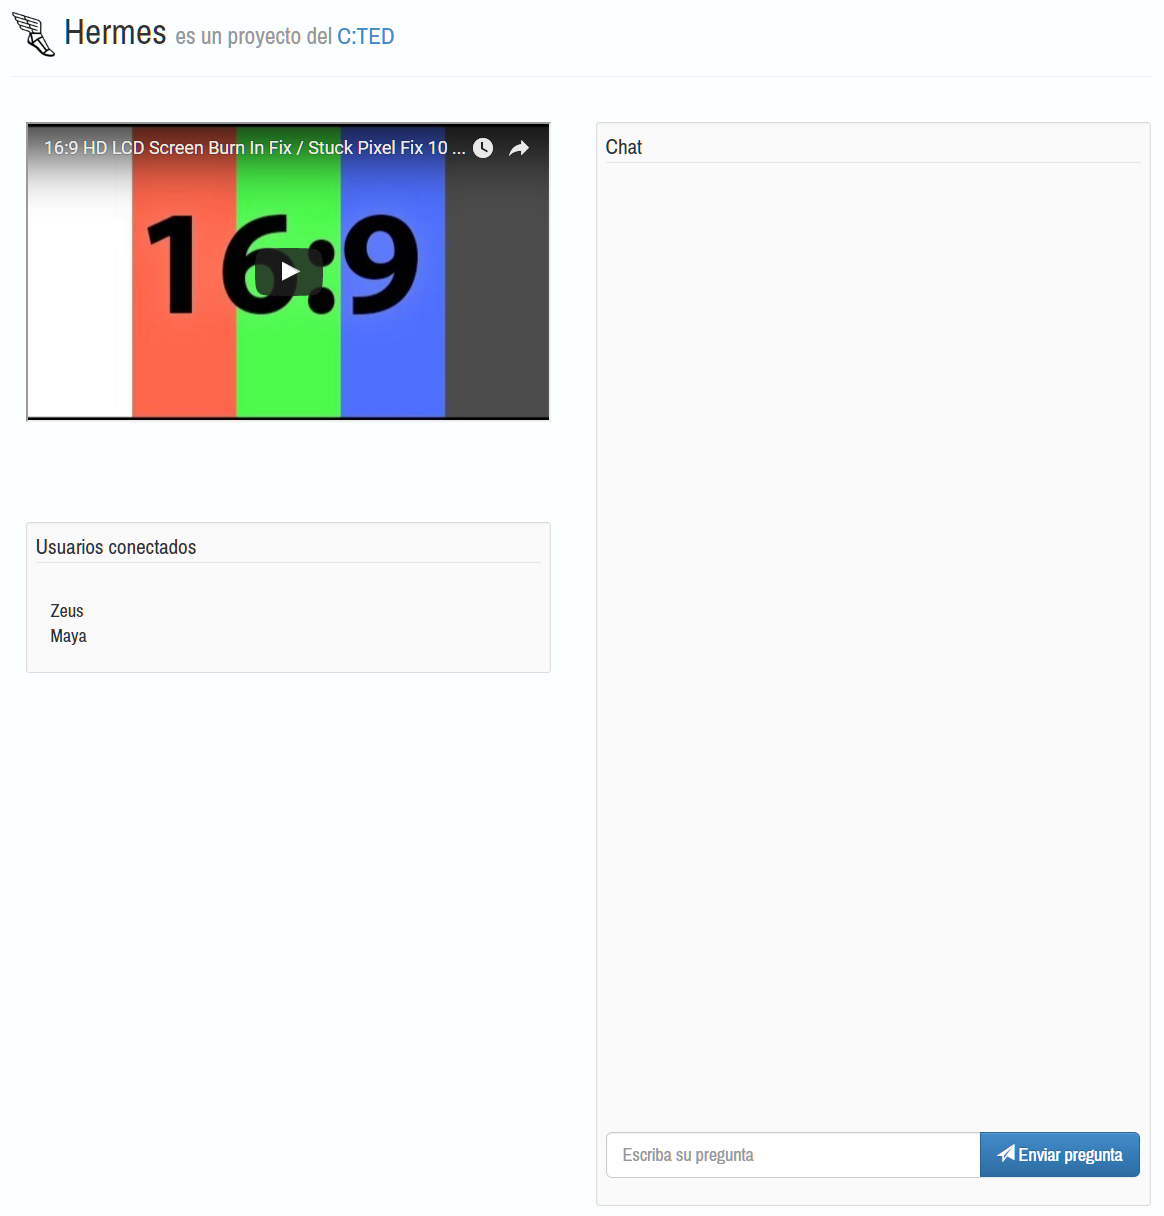
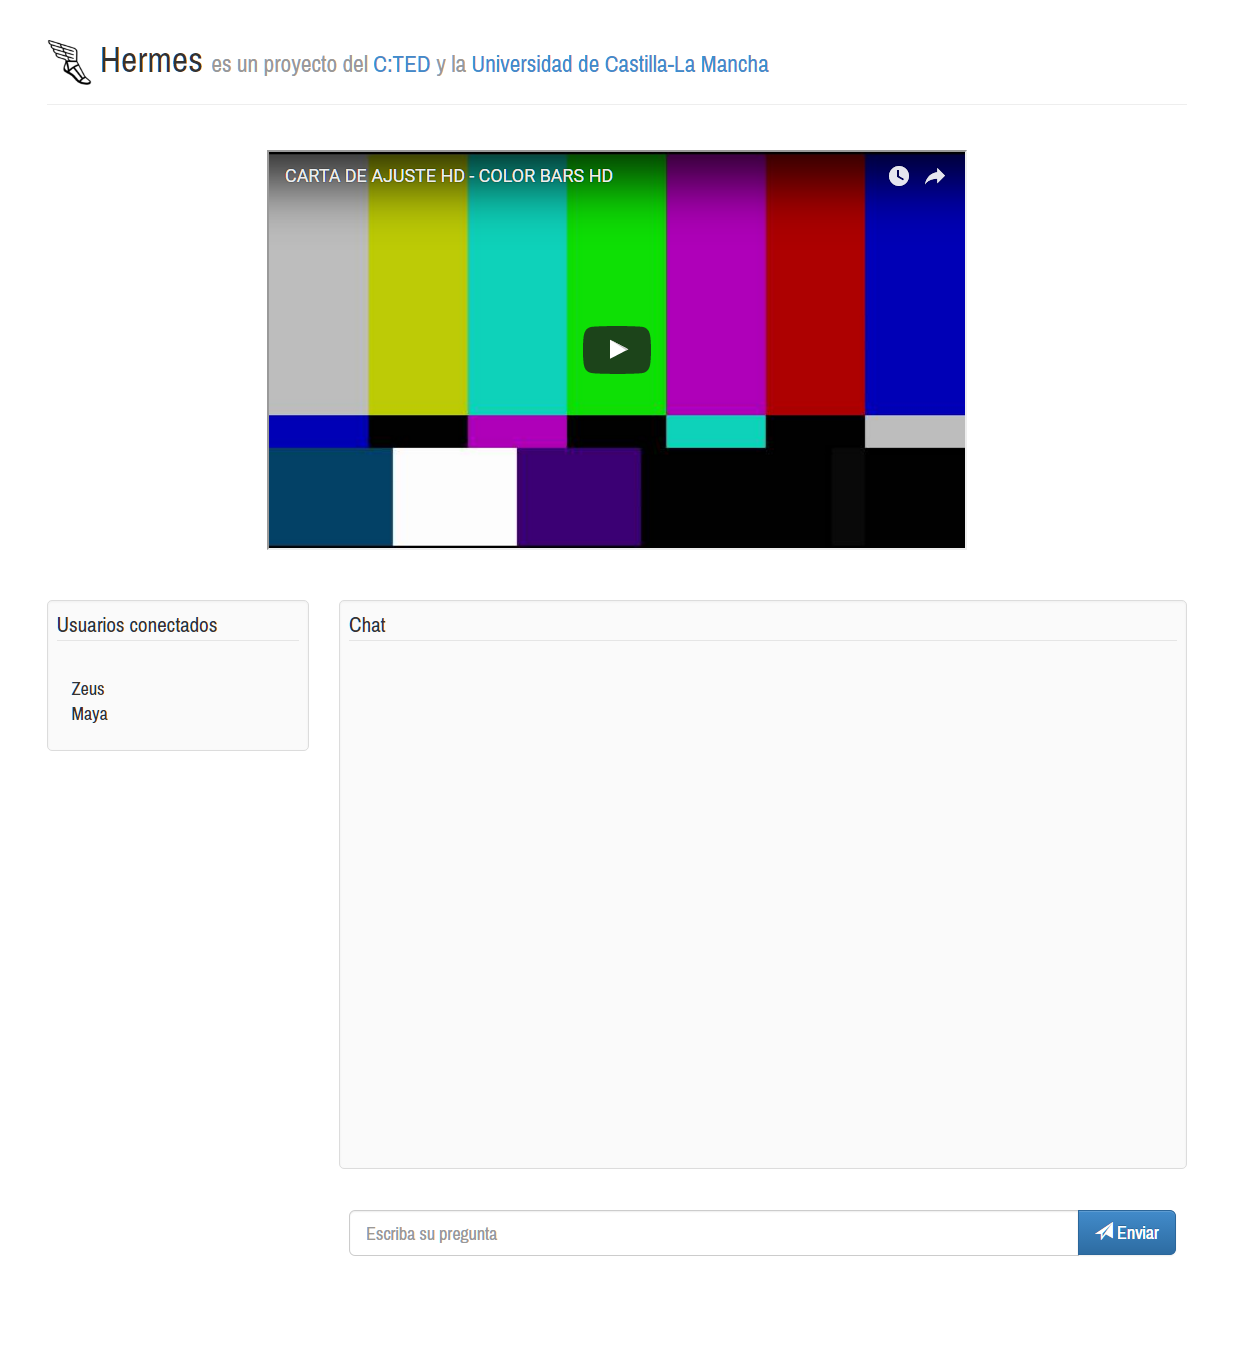
updated readme

diff --git a/pages/professor.html b/pages/professor.html
@@ -49,7 +49,7 @@
         <div class="page-header">
             <h1>
                 <a href="/admin"><img src="/hermes-logo.png" width="45px" height="45px"/></a>
-                Hermes Professor <small>es un proyecto del <a href="http://blog.uclm.es/cted" target="_blank">C:TED</a> y la <a href="http://uclm.es" target="_blank">Universidad de Castilla-La Mancha</a></small>
+                Hermes <small>es un proyecto del <a href="http://blog.uclm.es/cted" target="_blank">C:TED</a> y la <a href="http://uclm.es" target="_blank">Universidad de Castilla-La Mancha</a></small>
             </h1>
         </div>
         <br/>

diff --git a/README.md b/README.md
@@ -2,29 +2,36 @@
 Hermes es un herramienta destinada a profesores que impartan clases en streaming a través de YouTube.
 
 <p align="center">
-  <img src=https://github.com/gomezportillo/hermes/blob/master/images/hermes-logo-title.png?raw=true" alt="Hermes"/>
+  <img src="images/hermes-logo-title.png?raw=true" alt="Hermes"/>
 </p>
 
 ## Instalación
-Para ejecutar Hermes necesita tener instalado [Node.js](https://nodejs.org/) en su sistema.
+Para ejecutar Hermes necesita tener instalado [Node.js](https://nodejs.org/) en el servidor.
 
-Si tiene algún problema con las dependecias socket.io o express, sitúese en el direcorio raíz y ejecute
+Si tiene algún problema con las dependecias Socket.io o Express, sitúese en el direcorio raíz y ejecute
 ```
 npm install
 ```  
 para descargarlas de nuevo, aunque inicialmente ya se encuentran descargadas en el directorio *node_modules/*
 
 ## Ejecución
-Sitúese en el directorio raiz y ejecute
+En el servidor, sitúese en el directorio raiz y ejecute
 ```
 node index.js
 ```
 
 ## Uso
 Hermes permite desplegar un servidor en Node.js que ofrece dos páginas web desarrolladas con [Bootstrap](http://getbootstrap.com/) para los dos roles posibles,
-* El profesor, que accederá a través de *URL/admin* con una contraseña almacenada en el servidor y podrá cambiar la URL del vídeo de YouTube que ven los estudiantes y ver el chat y los usuarios conectados, aunque no escribir en él.
-* Los estudiantes accederán a través de *URL/* y podrán ver los usuarios conectados y el vídeo del profesor mientras le escriben preguntas a través del chat.
+* El profesor, que accederá en el navegador a través de *URL/admin* con una contraseña almacenada en el servidor y podrá cambiar la URL del vídeo de YouTube que ven los estudiantes en tiempo real, ver los usuarios conectados y leer y mandar mensajes en el chat.
 
 <p align="center">
-  <img src=https://github.com/gomezportillo/hermes/blob/master/images/student.png?raw=true" alt="Hermes"/>
+  <img src="images/professor.png?raw=true" alt="Alumno"/>
 </p>
+
+* Los estudiantes entrarán a través de *URL/*, accediendo tras introducir uno de los pares usuario:contraseña almacenados en el archivo [users.csv](users.csv) del servidor. Podrán ver los usuarios conectados y el vídeo del profesor mientras le escriben preguntas a través del chat.
+
+<p align="center">
+  <img src="images/student.png?raw=true" alt="Alumno"/>
+</p>
+
+Cada sesión de un usuario tiene asociado un identificador, y hasta que ese identificador no se identifique como un usuario válido no podrá acceder a ninguna de las funcionalidades (ni ver qué vídeo hay, ni los usuarios conectados ni leer y mandar mensajes al chat).
